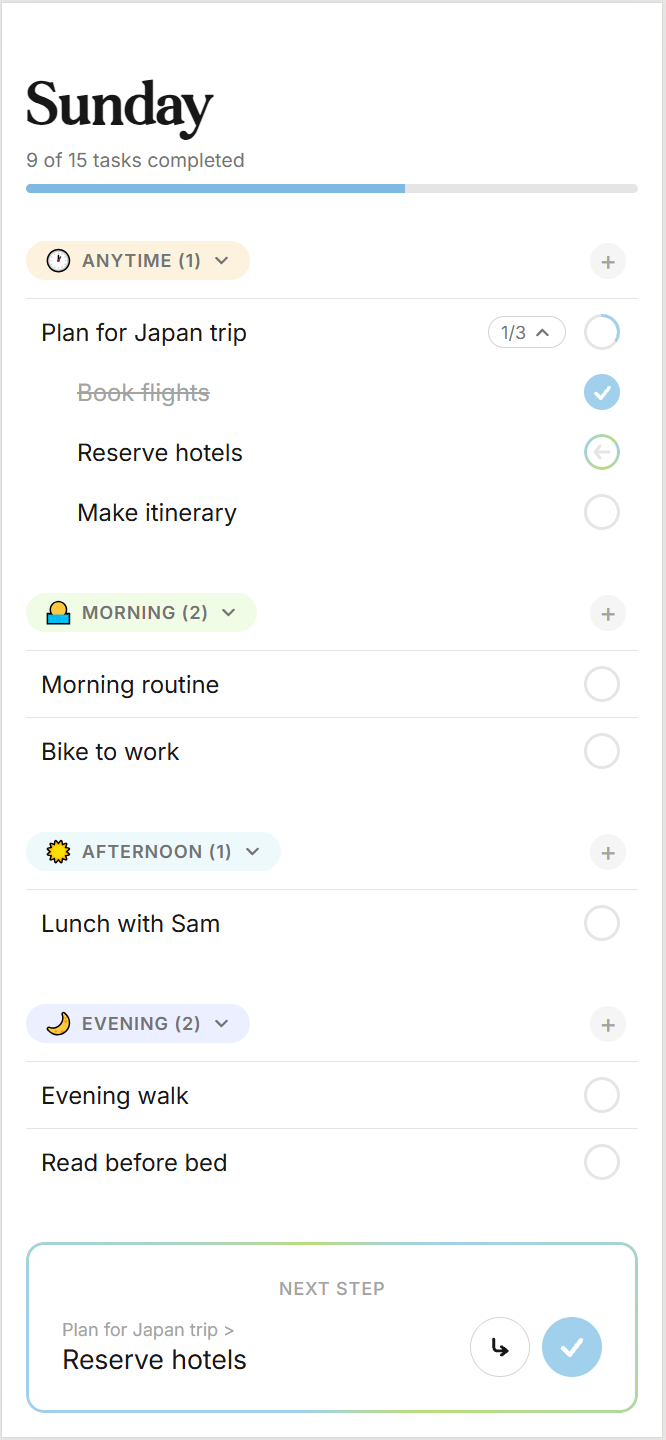
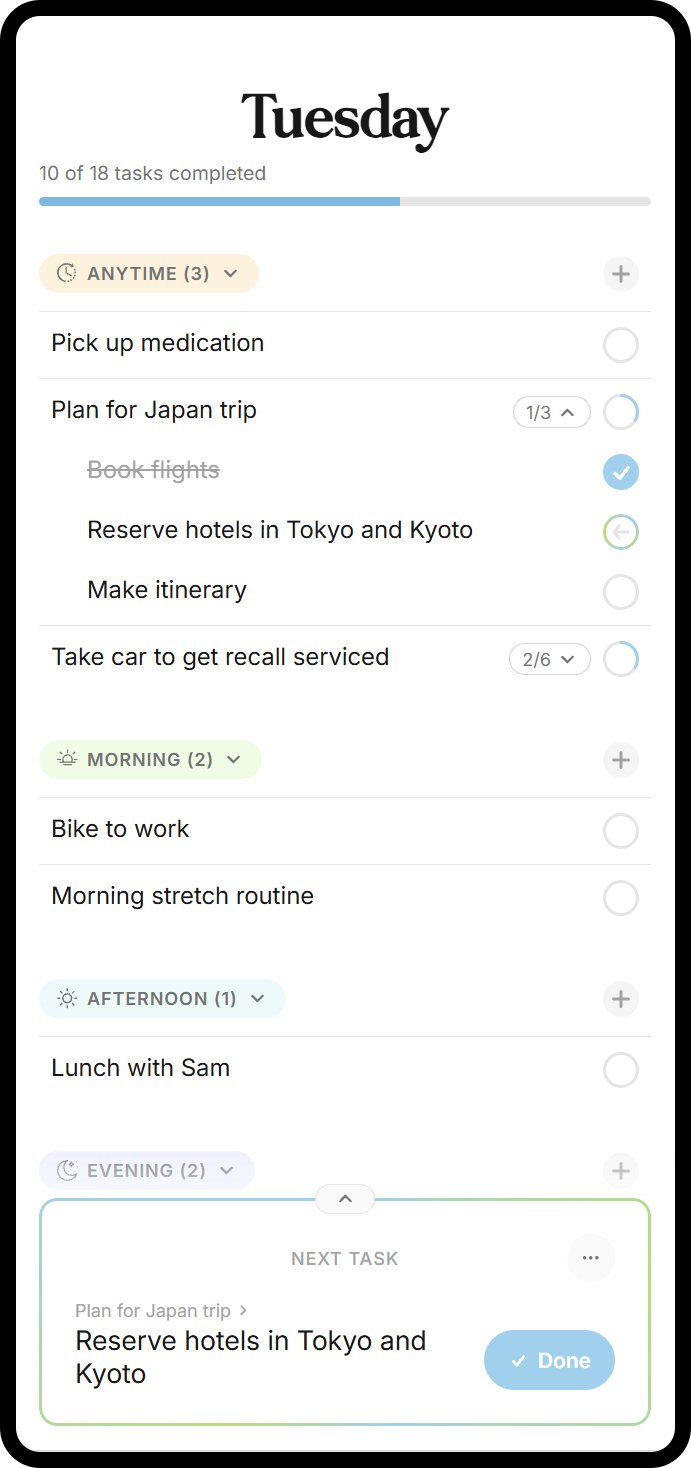
[chore] Add bg to focus mode and update README

diff --git a/src/components/FocusMode.module.css b/src/components/FocusMode.module.css
@@ -5,6 +5,7 @@
   min-height: 100vh;
   display: flex;
   flex-direction: column;
+  background: #eceae4;
 }
 
 /* Grid, not flex — a 3rd column that reserves its 1fr share even with
@@ -19,7 +20,7 @@
   border-bottom: 1px solid var(--color-border-subtle);
   position: sticky;
   top: 0;
-  background: var(--color-bg);
+  background: #eceae4;
   z-index: 10;
 }
 
@@ -36,11 +37,11 @@
   height: 1.9rem;
   border-radius: 50%;
   border: none;
-  background: var(--color-surface-hover);
+  background: #eceae4;
   display: flex;
   align-items: center;
   justify-content: center;
-  color: var(--color-muted-fg);
+  color: var(--color-muted);
   cursor: pointer;
 }
 
@@ -300,13 +301,13 @@
 }
 
 .peek1 {
-  transform: rotateX(28deg) scale(0.93);
+  transform: scale(0.93);
   z-index: 3;
   margin-top: -0.4rem;
 }
 
 .peek2 {
-  transform: rotateX(40deg) scale(0.86);
+  transform: scale(0.86);
   z-index: 2;
   margin-top: -0.8rem;
   background: var(--color-surface);
@@ -318,7 +319,7 @@
 }
 
 .peek3 {
-  transform: rotateX(48deg) scale(0.8);
+  transform: scale(0.8);
   z-index: 1;
   margin-top: -1.5rem;
   background: var(--color-surface);

diff --git a/README.md b/README.md
@@ -14,13 +14,14 @@ instead of a wall of to-dos.
 
 <table>
   <tr>
-    <td width="50%">
-      <strong>Today's list, grouped by time of day</strong><br>
+    <td width="33%">
       <img src="./screenshot-list.PNG" width="100%">
     </td>
-    <td width="50%">
-      <strong>Creating a task, with optional scheduling</strong><br>
+    <td width="33%">
       <img src="./screenshot-create.PNG" width="100%">
+    </td>
+    <td width="33%">
+      <img src="./screenshot-focus.PNG" width="100%">
     </td>
   </tr>
 </table>
@@ -41,7 +42,9 @@ instead of a wall of to-dos.
 - `src/lib/anthropic.ts` — Claude API call for task breakdown
 - `src/app/api/**` — REST-ish route handlers (projects, tasks, reorder, breakdown)
 - `src/app/tasks/new/page.tsx` — the full-screen create-task route
+- `src/app/focus/page.tsx` — the full-screen focus-mode route
 - `src/components/TaskApp.tsx` — client-side state + orchestration
 - `src/components/TaskRow.tsx` — recursive task tree row
 - `src/components/NextActionCard.tsx` — the "Next Action" surface
 - `src/components/CreateTaskPage.tsx` — task creation, with subtasks and optional scheduling
+- `src/components/FocusMode.tsx` — one task, one step at a time
